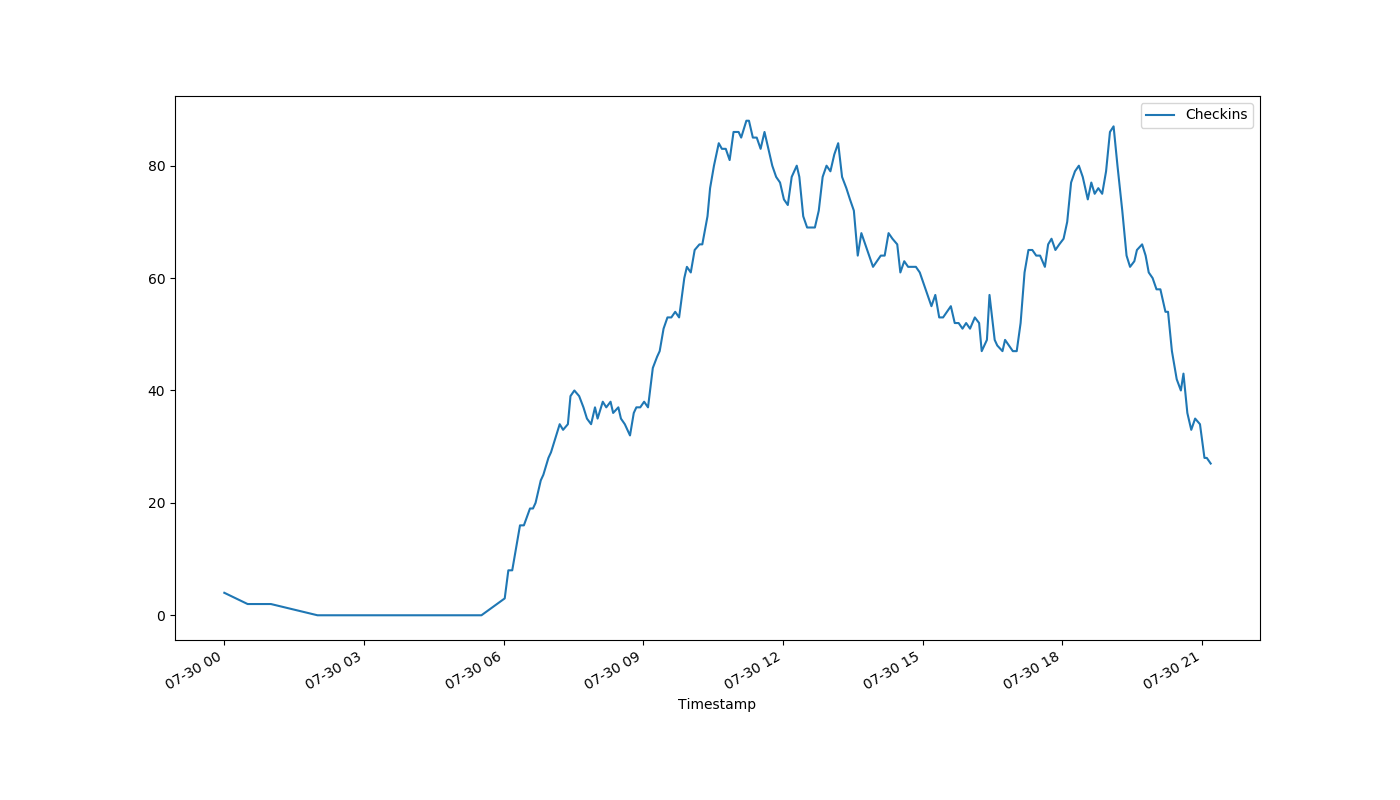
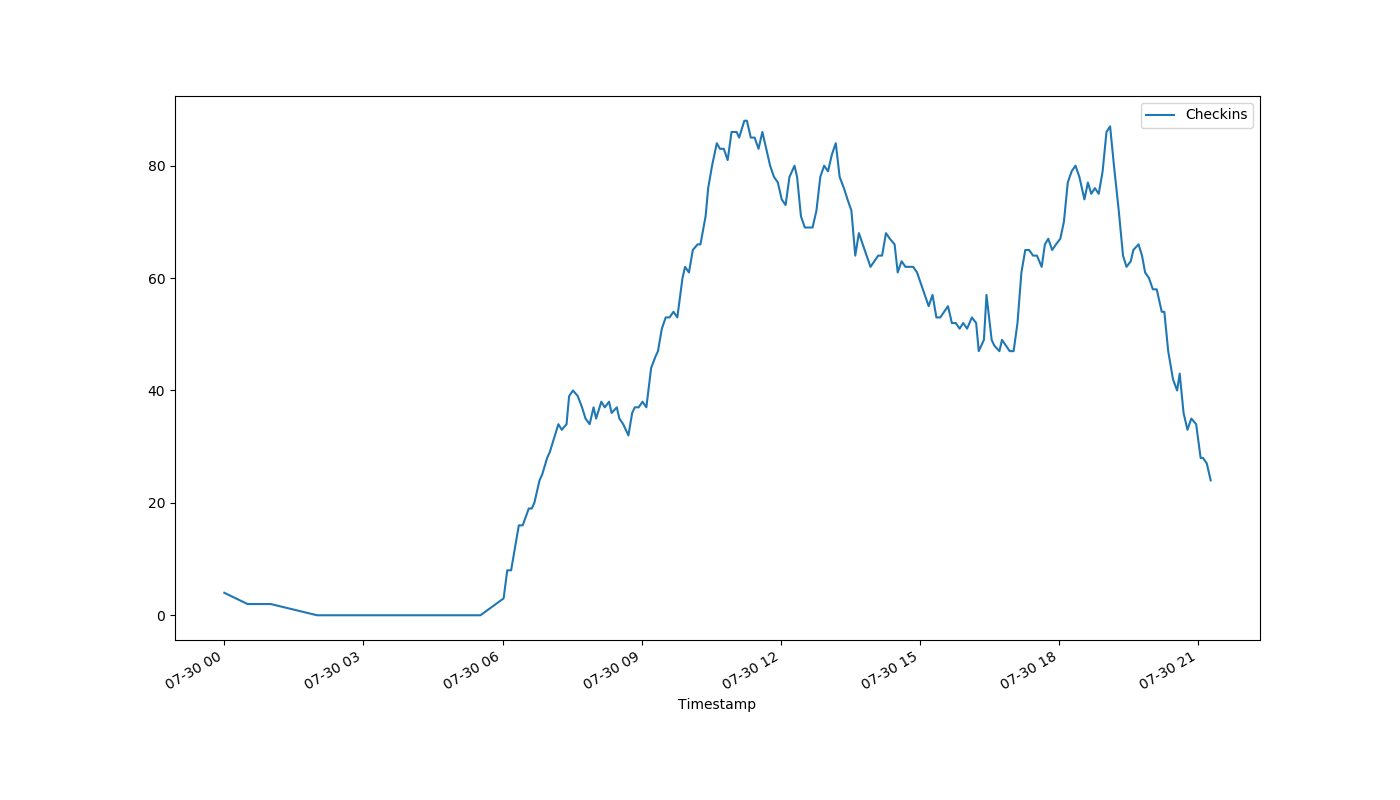
auto-Jul-30-21:17:49

diff --git a/index.html b/index.html
@@ -1,1 +1,1 @@
-<!DOCTYPE html><html><head><meta http-equiv="refresh" content="30"><link rel='stylesheet' href='holmcurrent.css'></head><body><p id='count'>27</p><div id='graph-wrap'><img id='graph' src='holmgraph-Jul-30.png'></div><p id='updated'>Last updated 21:11:16 / 21:11:07</p></body></html>
+<!DOCTYPE html><html><head><meta http-equiv="refresh" content="30"><link rel='stylesheet' href='holmcurrent.css'></head><body><p id='count'>24</p><div id='graph-wrap'><img id='graph' src='holmgraph-Jul-30.png'></div><p id='updated'>Last updated 21:16:16 / 21:16:07</p></body></html>
